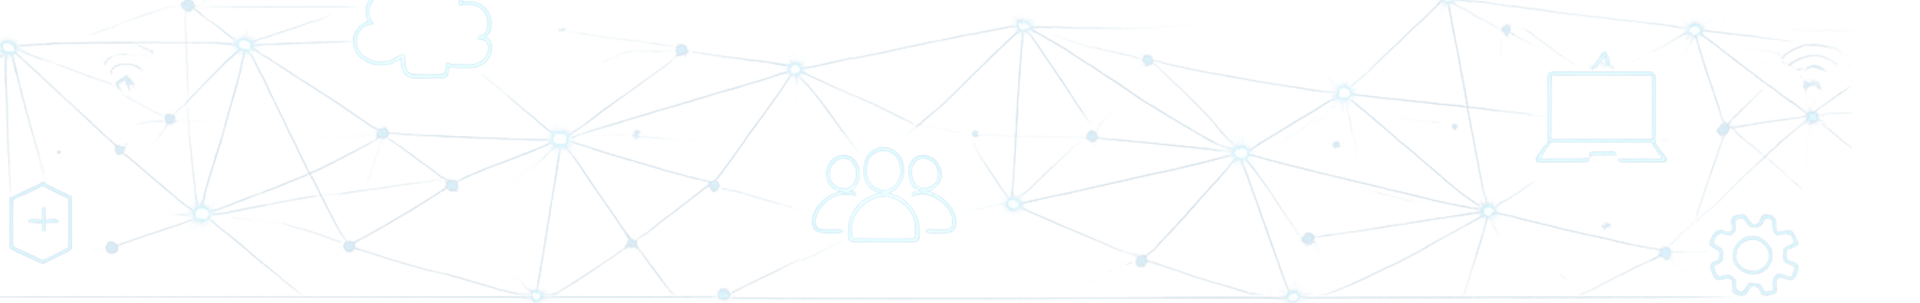
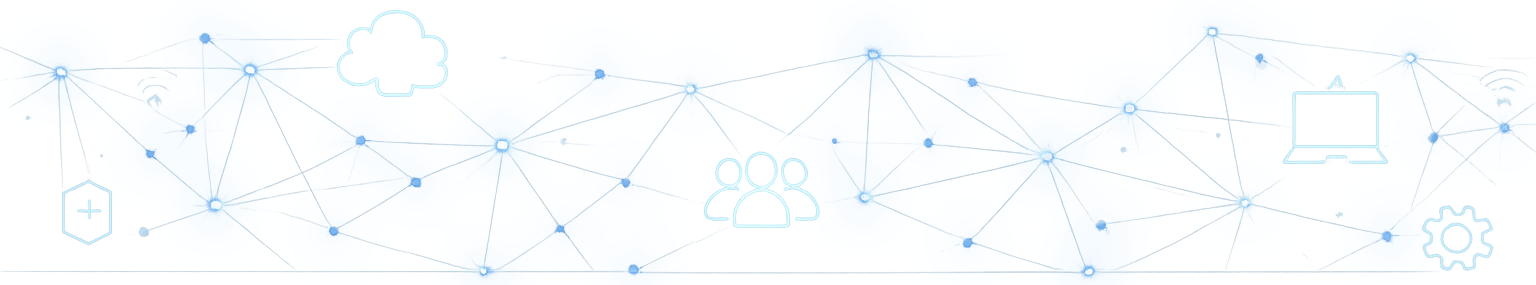
fixed

diff --git a/src/app/(site)/page.tsx b/src/app/(site)/page.tsx
@@ -1,46 +1,92 @@
-import type { Metadata } from "next";
-
-import { BridgeCatalog } from "@/components/home2/BridgeCatalog";
-import { BridgeFAQ } from "@/components/home2/BridgeFAQ";
-import { BridgeHero } from "@/components/home2/BridgeHero";
-import { BridgePillars } from "@/components/home2/BridgePillars";
-import { BridgeStats } from "@/components/home2/BridgeStats";
-import { BridgeWhatIs } from "@/components/home2/BridgeWhatIs";
-import CtaBot from "@/components/home2/CtaBot";
-import { CustomerTrust } from "@/components/CustomerTrust";
-import { JsonLdScript } from "@/components/JsonLdScript";
-import { NavigationBar } from "@/components/Navigation";
-import { getHomepageContent } from "@/lib/homepage";
-import { toNextMetadata } from "@/lib/page-seo";
-import { getKnowledgePageContent } from "@/lib/site-content";
-
-export const dynamic = "force-dynamic";
-
-export async function generateMetadata(): Promise<Metadata> {
-  const content = await getHomepageContent();
-  return toNextMetadata(content.meta);
-}
-
-export default async function HomePage() {
-  const [content, knowledge] = await Promise.all([
-    getHomepageContent(),
-    getKnowledgePageContent(),
-  ]);
-
-  return (
-    <>
-      <JsonLdScript schemaJson={content.meta.schemaJson} />
-      <main className="bridge-page min-h-screen bg-white text-[#3d3d3d]">
-        <NavigationBar overlay />
-        <BridgeHero content={content.hero} />
-        <BridgeWhatIs content={content.whatIs} />
-        <CustomerTrust content={content.customerTrust} />
-        <BridgeStats content={content.stats} />
-        <BridgePillars content={content.pillars} />
-        <CtaBot content={content.cta} />
-        <BridgeCatalog content={content.catalog} />
-        <BridgeFAQ faqs={knowledge.faqs} />
-      </main>
-    </>
-  );
-}
+import type { Metadata } from "next";
+
+
+
+import { BridgeCatalog } from "@/components/home2/BridgeCatalog";
+
+import { BridgeFAQ } from "@/components/home2/BridgeFAQ";
+
+import { BridgeHero } from "@/components/home2/BridgeHero";
+
+import { BridgePillars } from "@/components/home2/BridgePillars";
+
+import { BridgeStats } from "@/components/home2/BridgeStats";
+
+import { BridgeWhatIs } from "@/components/home2/BridgeWhatIs";
+
+import CtaBot from "@/components/home2/CtaBot";
+
+import { CustomerTrust } from "@/components/CustomerTrust";
+
+import { JsonLdScript } from "@/components/JsonLdScript";
+
+import { NavigationBar } from "@/components/Navigation";
+
+import { getHomepageContent } from "@/lib/homepage";
+
+import { toNextMetadata } from "@/lib/page-seo";
+
+import { getKnowledgePageContent } from "@/lib/site-content";
+
+
+
+export const dynamic = "force-dynamic";
+
+
+
+export async function generateMetadata(): Promise<Metadata> {
+
+  const content = await getHomepageContent();
+
+  return toNextMetadata(content.meta);
+
+}
+
+
+
+export default async function HomePage() {
+
+  const [content, knowledge] = await Promise.all([
+
+    getHomepageContent(),
+
+    getKnowledgePageContent(),
+
+  ]);
+
+
+
+  return (
+
+    <>
+
+      <JsonLdScript schemaJson={content.meta.schemaJson} />
+
+      <main className="bridge-page min-h-screen bg-white text-[#3d3d3d] overflow-x-hidden">
+
+        <NavigationBar overlay />
+
+        <BridgeHero content={content.hero} />
+
+        <BridgeWhatIs content={content.whatIs} />
+
+        <CustomerTrust content={content.customerTrust} />
+
+        <BridgeStats content={content.stats} />
+
+        <BridgePillars content={content.pillars} />
+
+        <CtaBot content={content.cta} />
+
+        <BridgeCatalog content={content.catalog} />
+
+        <BridgeFAQ faqs={knowledge.faqs} />
+
+      </main>
+
+    </>
+
+  );
+
+}
+

diff --git a/src/components/home2/BridgeStats.tsx b/src/components/home2/BridgeStats.tsx
@@ -41,7 +41,7 @@ export function BridgeStats({ content }: Props) {
         </div>
 
       </div>
-      <div className="text-center leading-0 -mb-[50px] md:-mb-[38px] lg:-mb-[35px] md:text-[75px] pt-28 xl:text-[9.4rem] lg:text-[6.3rem] whitespace-nowrap text-[#F4F4F1] text-[36px] font-bold">ZerofAI Intelligence</div>
+      <div className="text-center leading-0 -mb-[50px] md:-mb-[38px] lg:-mb-[35px] xl:-mb-[43px] md:text-[75px] pt-28 xl:text-[8.4rem] 2xl:text-[9.4rem] lg:text-[6.3rem] whitespace-nowrap text-[#F4F4F1] text-[36px] font-bold">ZerofAI Intelligence</div>
 
     </section>
   );

diff --git a/src/components/home2/BridgeWhatIs.tsx b/src/components/home2/BridgeWhatIs.tsx
@@ -76,7 +76,7 @@ export function BridgeWhatIs({ content }: Props) {
         </div>
 
       </div>
-      <div className="text-center capitalize md:-mb-[30px] lg:-mb-[35px] xl:text-[9.8rem] md:text-[80px] pt-20 lg:text-[6.7rem] whitespace-nowrap text-[#EFF2F5] text-[40px] font-bold">client testimonials</div>
+      <div className="text-center capitalize md:-mb-[30px] lg:-mb-[35px] xl:-mb-[50px] 2xl:-mb-[55px] xl:text-[8.75rem] 2xl:text-[9.8rem] md:text-[80px] lg:text-[6.7rem] whitespace-nowrap text-[#EFF2F5] text-[40px] font-bold">client testimonials</div>
 
        
       <Dialog
